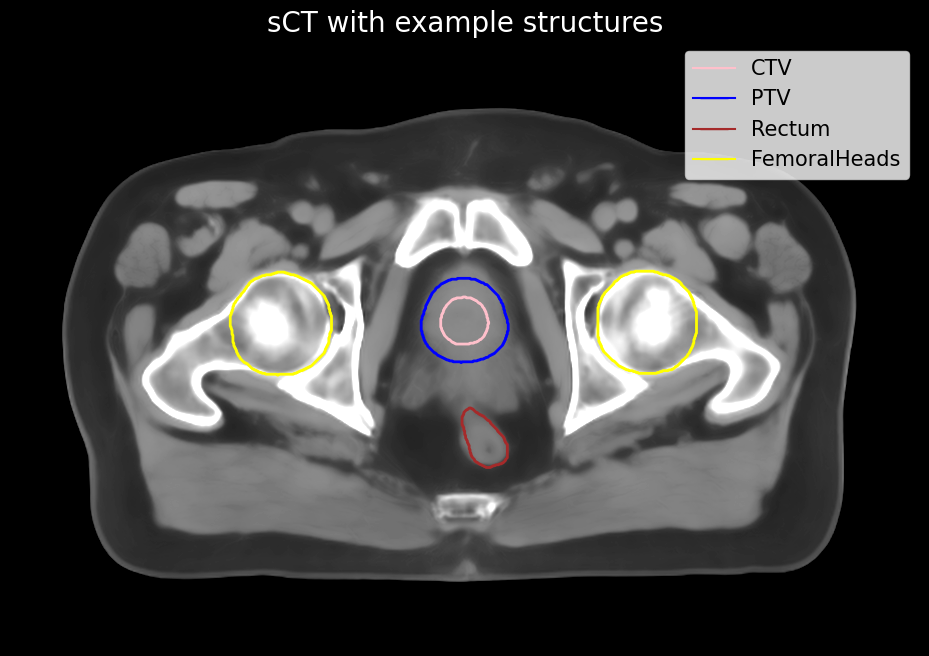
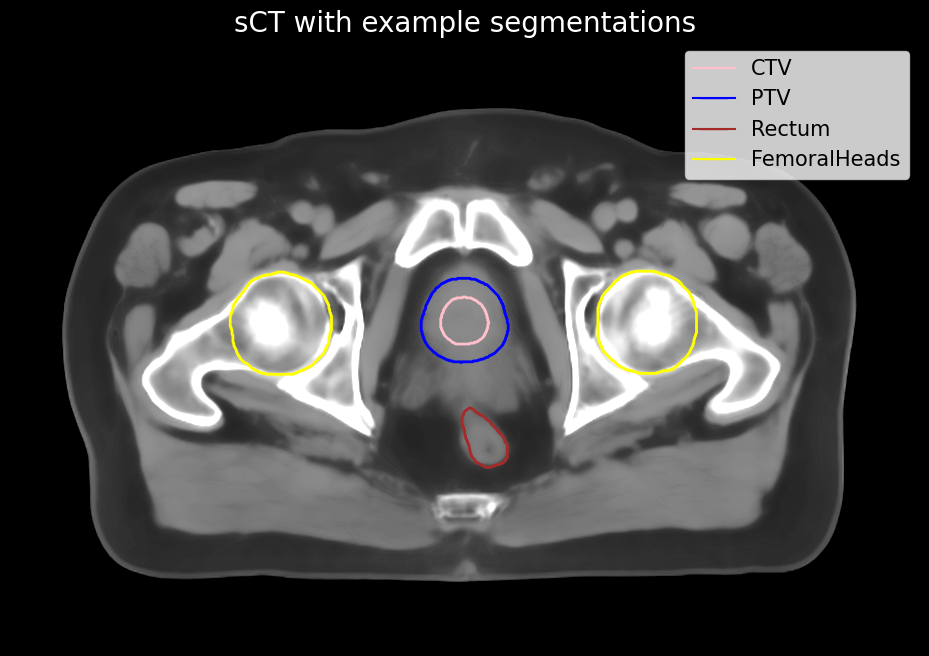
Add files via upload

Changed region(s): [[0.2497, 0.0, 0.7492, 0.061]]

diff --git a/README.md b/README.md
@@ -69,14 +69,14 @@ uncertaintyMapRectumPath = os.path.join(subjectDir, MRIDir, nnUNetOutputDir, 'ma
 # Define paths for DL segmentations
 DLCTVPath = os.path.join(subjectDir, MRIDir, nnUNetOutputDir, 'mask_CTVT_427_nnUNet.nii.gz') 
 DLRectumPath = os.path.join(subjectDir, MRIDir, nnUNetOutputDir, 'mask_Rectum_nnUNet.nii.gz')
-# Define paths for some sample MRI structures
+# Define paths for some sample MRI segmentations
 MRICTVPath = os.path.join(subjectDir, MRIDir, 'mask_CTVT_427.nii.gz')
 MRIPTVPath = os.path.join(subjectDir, MRIDir, 'mask_PTVT_427.nii.gz')
 MRIRectumPath = os.path.join(subjectDir, MRIDir, 'mask_Rectum.nii.gz')
 MRIFemoralHeadLPath = os.path.join(subjectDir, MRIDir, 'mask_FemoralHead_L.nii.gz')
 MRIFemoralHeadRPath = os.path.join(subjectDir, MRIDir, 'mask_FemoralHead_R.nii.gz')
 MRIBladderPath = os.path.join(subjectDir, MRIDir, 'mask_Bladder.nii.gz')
-# Define paths for some sample sCT structures
+# Define paths for some sample sCT segmentations
 sCTCTVPath = os.path.join(subjectDir, sCTDir, 'mask_CTVT_427.nii.gz')
 sCTPTVPath = os.path.join(subjectDir, sCTDir, 'mask_PTVT_427.nii.gz')
 sCTRectumPath = os.path.join(subjectDir, sCTDir, 'mask_Rectum.nii.gz')
@@ -106,14 +106,14 @@ uncertainyyMapRectumImage = sitk.ReadImage(uncertaintyMapRectumPath)
 # DL segmentations
 DLCTVImage = sitk.ReadImage(DLCTVPath)
 DLRectumImage = sitk.ReadImage(DLRectumPath)
-# Structure volumes MRI
+# Segmentations volumes MRI
 MRICTVImage = sitk.ReadImage(MRICTVPath)
 MRIRectumImage = sitk.ReadImage(MRIRectumPath)
 MRIFemoralHeadLImage = sitk.ReadImage(MRIFemoralHeadLPath)
 MRIFemoralHeadRImage = sitk.ReadImage(MRIFemoralHeadRPath)
 MRIPTVImage = sitk.ReadImage(MRIPTVPath)
 MRIBladderImage = sitk.ReadImage(MRIBladderPath)
-# Structure volumes sCT 
+# Segmentations volumes sCT 
 sCTCTVImage = sitk.ReadImage(sCTCTVPath)
 sCTPTVImage = sitk.ReadImage(sCTPTVPath)
 sCTRectumImage = sitk.ReadImage(sCTRectumPath)
@@ -172,14 +172,14 @@ DLCTVArray = sitk.GetArrayFromImage(DLCTVImage)
 DLRectumArray = sitk.GetArrayFromImage(DLRectumImage)
 # Fiducial points
 fiducialArray = sitk.GetArrayFromImage(fiducialImage)
-# Structure volumes MRI
+# Segmentation volumes MRI
 MRICTVArray = sitk.GetArrayFromImage(MRICTVImage)
 MRIRectumArray = sitk.GetArrayFromImage(MRIRectumImage)
 MRIFemoralHeadLArray = sitk.GetArrayFromImage(MRIFemoralHeadLImage)
 MRIFemoralHeadRArray = sitk.GetArrayFromImage(MRIFemoralHeadRImage)
 MRIPTVArray = sitk.GetArrayFromImage(MRIPTVImage)
 MRIBladderArray = sitk.GetArrayFromImage(MRIBladderImage)
-# Structure volumes sCT
+# Segmentations volumes sCT
 sCTCTVArray = sitk.GetArrayFromImage(sCTCTVImage)
 sCTPTVArray = sitk.GetArrayFromImage(sCTPTVImage)
 sCTRectumArray = sitk.GetArrayFromImage(sCTRectumImage)
@@ -276,7 +276,7 @@ plt.show()
 
 
 ```python
-# Plot the MRI CTV structure for the middle slice
+# Plot the MRI CTV segmentation for the middle slice
 plt.imshow(MRICTVArray[middleSliceMRI, :, :], cmap='gray')
 plt.title('MRI CTV segmentation binary mask')
 plt.axis('off')
@@ -305,7 +305,7 @@ plotFunctions.plotData(MRIArray, showDosemap=False, showStructArrays=False, Titl
 
 
 ```python
-# Plot the MRI and the CTV structure
+# Plot the MRI and the CTV segmentation
 plotFunctions.plotData(MRIArray, structCTVArray=MRICTVArray, showDosemap=False, showStructArrays=True, Title="MRI and CTV segmentation overlay", zooming=True, zoomingShape=[50, 960, 800, 200])
 ```
 
@@ -317,7 +317,7 @@ plotFunctions.plotData(MRIArray, structCTVArray=MRICTVArray, showDosemap=False, 
 
 
 ```python
-# Plot the MRI CTV structure with observer C and D in different colors
+# Plot the MRI CTV segmentation with observer C and D in different colors
 plotFunctions.plotData(MRIArray, structCTVArray=MRICTVArray, MRICTVObsDImage=MRICTVObsCArray, MRICTVObsCImage=MRICTVObsDArray, showDosemap=False, showStructArrays=True, Title="MRI and CTV segmentation overlay together with obsC and obsD", zooming=True, zoomingShape=[50, 960, 800, 200])
 ```
 
@@ -329,9 +329,9 @@ plotFunctions.plotData(MRIArray, structCTVArray=MRICTVArray, MRICTVObsDImage=MRI
 
 
 ```python
-# Plot MRI with structures
+# Plot MRI with segmentations
 plotFunctions.plotData(MRIArray, structCTVArray=MRICTVArray, structRectumArray=MRIRectumArray, structPTVArray=MRIPTVArray, structFemoralHeadLArray=MRIFemoralHeadLArray, 
-        structFemoralHeadRArray=MRIFemoralHeadRArray, showDosemap=False, showStructArrays=True, Title="MRI with example structures", showLegend=True, zooming=True, zoomingShape=[50, 960, 800, 200])
+        structFemoralHeadRArray=MRIFemoralHeadRArray, showDosemap=False, showStructArrays=True, Title="MRI with example segmentations", showLegend=True, zooming=True, zoomingShape=[50, 960, 800, 200])
 ```
 
 
@@ -366,9 +366,9 @@ plotFunctions.plotData(MRIArray, doseMapArray=MRIDoseInterpolatedArray, showDose
 
 
 ```python
-# Plot MRI with structures and dose overlay
+# Plot MRI with segmentations and dose overlay
 plotFunctions.plotData(MRIArray, doseMapArray=MRIDoseInterpolatedArray, showDosemap=True, structCTVArray=MRICTVArray, structRectumArray=MRIRectumArray, structPTVArray=MRIPTVArray, structFemoralHeadLArray=MRIFemoralHeadLArray, 
-        structFemoralHeadRArray=MRIFemoralHeadRArray, showStructArrays=True, Title="MRI with example structures and dose overlay", showLegend=True, zooming=True, zoomingShape=[50, 960, 800, 200])
+        structFemoralHeadRArray=MRIFemoralHeadRArray, showStructArrays=True, Title="MRI with example segmentations and dose overlay", showLegend=True, zooming=True, zoomingShape=[50, 960, 800, 200])
 ```
 
 
@@ -403,9 +403,9 @@ plotFunctions.plotData(sCTArray,Title='sCT', ct=True)
 
 
 ```python
-# Plot original sCT with example structures 
+# Plot original sCT with example segmentations 
 plotFunctions.plotData(sCTArray, structCTVArray=sCTCTVArray, structRectumArray=sCTRectumArray, structPTVArray=sCTPTVArray, structFemoralHeadLArray=sCTFemoralHeadLArray, 
-        structFemoralHeadRArray=sCTFemoralHeadRArray, showDosemap=False, showStructArrays=True, Title="sCT with example structures", showLegend=True, ct=True)
+        structFemoralHeadRArray=sCTFemoralHeadRArray, showDosemap=False, showStructArrays=True, Title="sCT with example segmentations", showLegend=True, ct=True)
 ```
 
 
@@ -465,10 +465,10 @@ plotFunctions.plotData(sCTReg2MRIArray, doseMapArray=MRIDoseInterpolatedArray, s
 
 
 ```python
-# Plot sCT registered to MRI with structures 
-# Notice use of MRI structures for overlay
+# Plot sCT registered to MRI with segmentations 
+# Notice use of MRI segmentations for overlay
 plotFunctions.plotData(sCTReg2MRIArray, structCTVArray=MRICTVArray, structRectumArray=MRIRectumArray, structPTVArray=MRIPTVArray, structFemoralHeadLArray=MRIFemoralHeadLArray, 
-        structFemoralHeadRArray=MRIFemoralHeadRArray, showDosemap=False, ct=True, showStructArrays=True, Title="sCT registered to MRI with example structures", showLegend=True, zooming=True, zoomingShape=[50, 960, 800, 200])
+        structFemoralHeadRArray=MRIFemoralHeadRArray, showDosemap=False, ct=True, showStructArrays=True, Title="sCT registered to MRI with example segmentations", showLegend=True, zooming=True, zoomingShape=[50, 960, 800, 200])
 ```
 
 
@@ -551,31 +551,31 @@ createPaperPlots = False
 
 
 ```python
-# FOR PAPER: Plot MRI with structures
+# FOR PAPER: Plot MRI with segmentations
 if createPaperPlots == True: 
         plotFunctions.plotData(MRIArray, structCTVArray=MRICTVArray, structFiducialArray=fiducialArray, structRectumArray=MRIRectumArray, structPTVArray=MRIPTVArray, structFemoralHeadLArray=MRIFemoralHeadLArray, 
                 structFemoralHeadRArray=MRIFemoralHeadRArray, showDosemap=False, showStructArrays=True, Title=None, showLegend=True, zooming=True, zoomingShape=[50, 960, 800, 200], slice_ax=42)
         # Save figure
-        plt.savefig('MRI_with_structures.png', dpi=300, bbox_inches='tight')
+        plt.savefig('MRI_with_segmentations.png', dpi=300, bbox_inches='tight')
 ```
 
 
 ```python
-# FOR PAPER: Plot sCT registered to MRI with structures 
-# Notice use of MRI structures for overlay
+# FOR PAPER: Plot sCT registered to MRI with segmentations 
+# Notice use of MRI segmentations for overlay
 if createPaperPlots == True: 
         plotFunctions.plotData(sCTReg2MRIArray, structCTVArray=MRICTVArray, structRectumArray=MRIRectumArray, structPTVArray=MRIPTVArray, structFemoralHeadLArray=MRIFemoralHeadLArray, 
                 structFemoralHeadRArray=MRIFemoralHeadRArray, showDosemap=False, ct=True, showStructArrays=True, Title=None, showLegend=True, zooming=True, zoomingShape=[50, 960, 800, 200], slice_ax=42)
         # Save figure
-        plt.savefig('sCT_registered_to_MRI_with_structures.png', dpi=300, bbox_inches='tight')
+        plt.savefig('sCT_registered_to_MRI_with_segmentations.png', dpi=300, bbox_inches='tight')
 ```
 
 
 ```python
-# FOR PAPER: Plot sCT registered to MRI with structures
+# FOR PAPER: Plot sCT registered to MRI with segmentations
 if createPaperPlots == True: 
         plotFunctions.plotData(sCTReg2MRIArray, doseMapArray=MRIDoseInterpolatedArray, structCTVArray=MRICTVArray, structRectumArray=MRIRectumArray, structPTVArray=MRIPTVArray, structFemoralHeadLArray=MRIFemoralHeadLArray, 
                 structFemoralHeadRArray=MRIFemoralHeadRArray, showDosemap=True, ct=True, showStructArrays=True, Title=None, showLegend=True, zooming=True, zoomingShape=[50, 960, 800, 200], slice_ax=42)
         # Save figure
-        plt.savefig('sCT_registered_to_MRI_with_structures_and_dose_overlay.png', dpi=300, bbox_inches='tight')
+        plt.savefig('sCT_registered_to_MRI_with_segmentations_and_dose_overlay.png', dpi=300, bbox_inches='tight')
 ```
